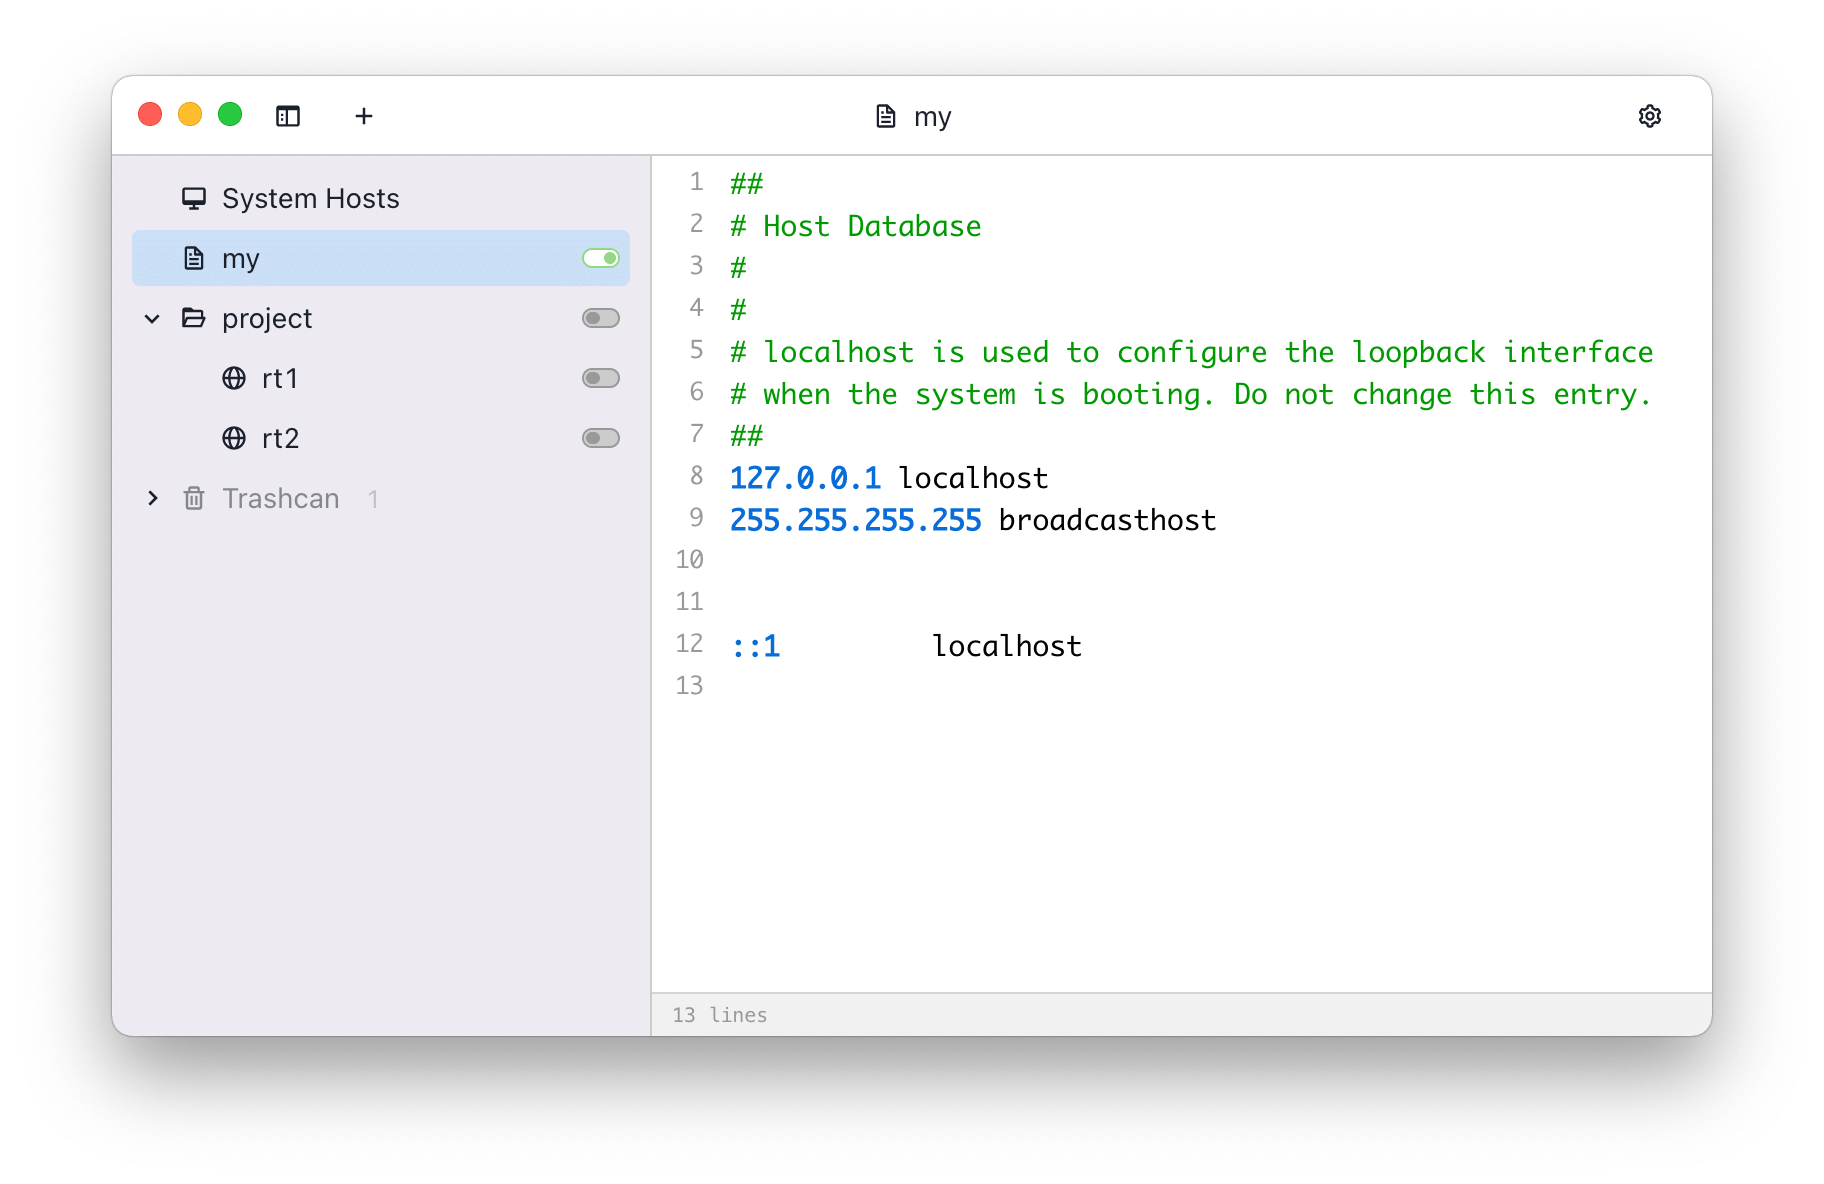
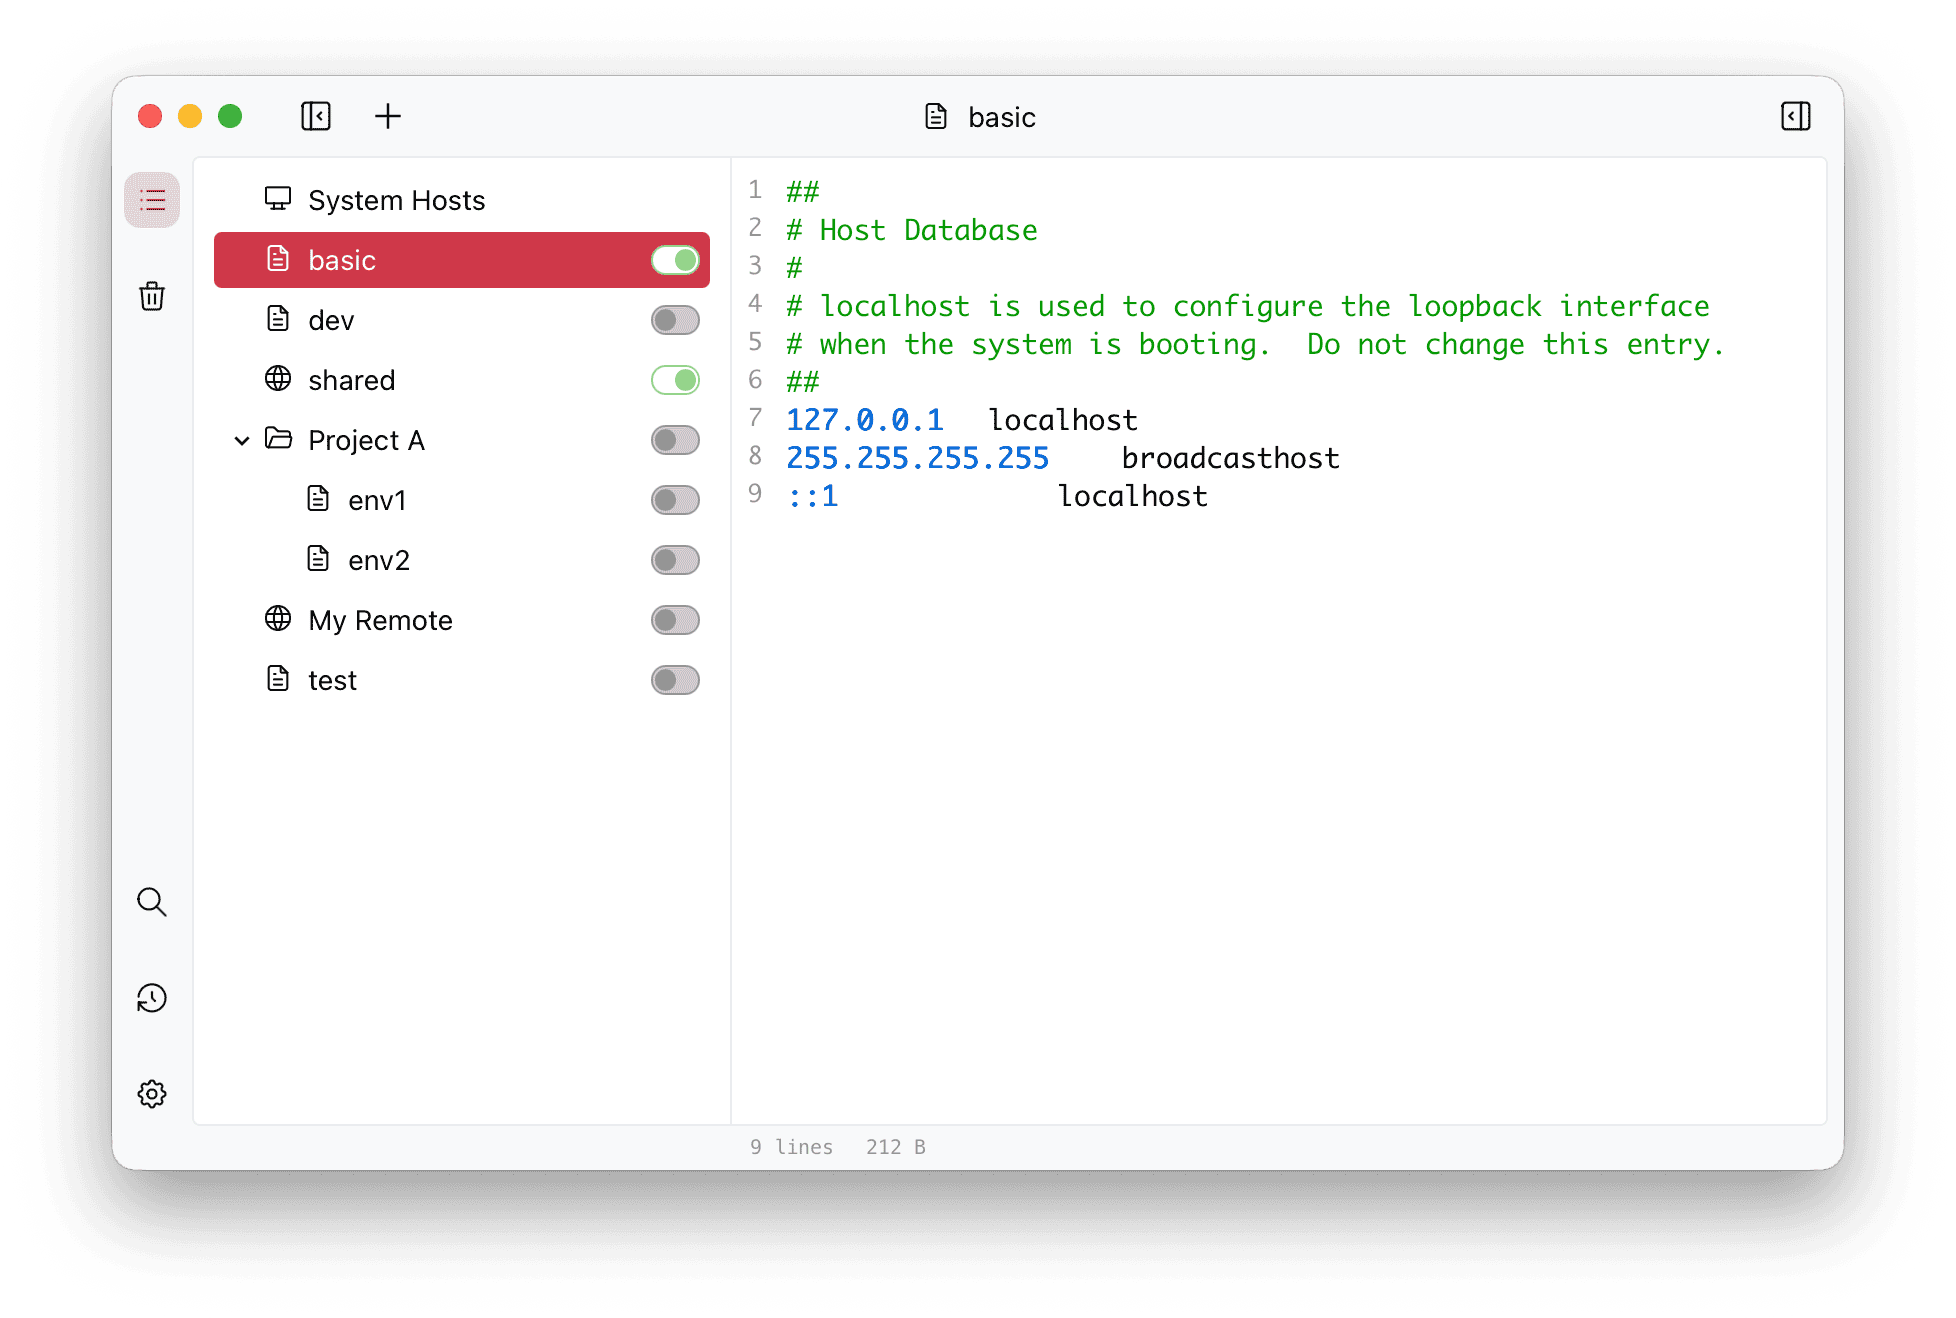
docs: update README screenshots and wording

diff --git a/src/common/i18n/languages/en.ts b/src/common/i18n/languages/en.ts
@@ -174,7 +174,7 @@ export default {
   theme: 'Theme',
   theme_dark: 'Dark',
   theme_light: 'Light',
-  theme_system: 'Follow system',
+  theme_system: 'Follow System',
   title: 'Title',
   to_show_source: 'Double-click to show the source code.',
   toggle_developer_tools: 'Toggle Developer Tools',

diff --git a/README.md b/README.md
@@ -25,7 +25,7 @@ SwitchHosts is an App for managing hosts file, it is based on [Tauri](https://ta
 
 ## Screenshot
 
-<img src="https://raw.githubusercontent.com/oldj/SwitchHosts/master/screenshots/sh_light.png" alt="Capture" width="960">
+<img src="./screenshots/sh_light.png" alt="SwitchHosts screenshot" width="978">
 
 ## Features
 

diff --git a/README.pl.md b/README.pl.md
@@ -24,7 +24,7 @@ SwitchHosts to aplikacja do zarządzania plikiem hosts, zbudowana na bazie [Taur
 
 ## Zrzut ekranu
 
-<img src="https://raw.githubusercontent.com/oldj/SwitchHosts/master/screenshots/sh_light.png" alt="Zrzut aplikacji" width="960">
+<img src="./screenshots/sh_light.png" alt="Zrzut ekranu SwitchHosts" width="978">
 
 ## Funkcje
 

diff --git a/README.zh_hans.md b/README.zh_hans.md
@@ -24,7 +24,7 @@ SwitchHosts 是一个管理 hosts 文件的应用，基于 [Tauri](https://tauri
 
 ## 截图
 
-<img src="https://raw.githubusercontent.com/oldj/SwitchHosts/master/screenshots/sh_light.png" alt="Capture" width="960">
+<img src="./screenshots/sh_light.png" alt="SwitchHosts 截图" width="978">
 
 ## 功能特性
 

diff --git a/README.zh_hant.md b/README.zh_hant.md
@@ -25,7 +25,7 @@ SwitchHosts 是一個管理 hosts 檔案的應用程式，基於 [Tauri](https:/
 
 ## 螢幕截圖
 
-<img src="https://raw.githubusercontent.com/oldj/SwitchHosts/master/screenshots/sh_light.png" alt="Capture" width="960">
+<img src="./screenshots/sh_light.png" alt="SwitchHosts 螢幕截圖" width="978">
 
 ## 功能特性
 